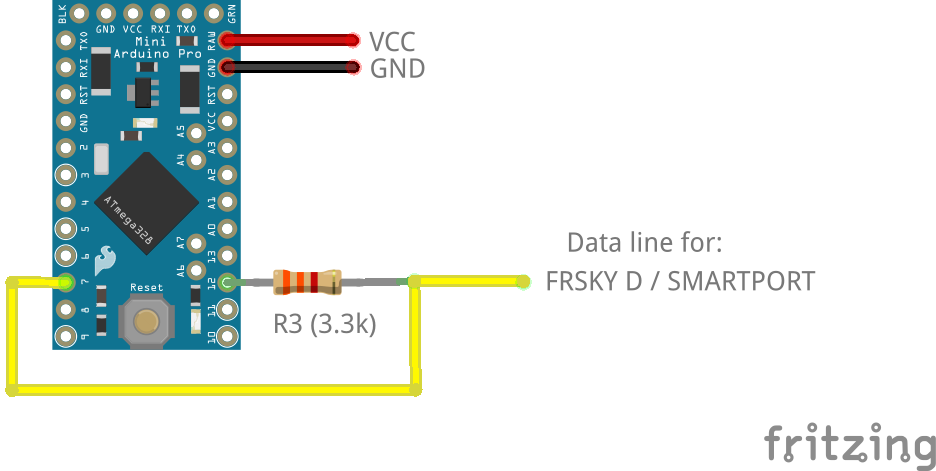
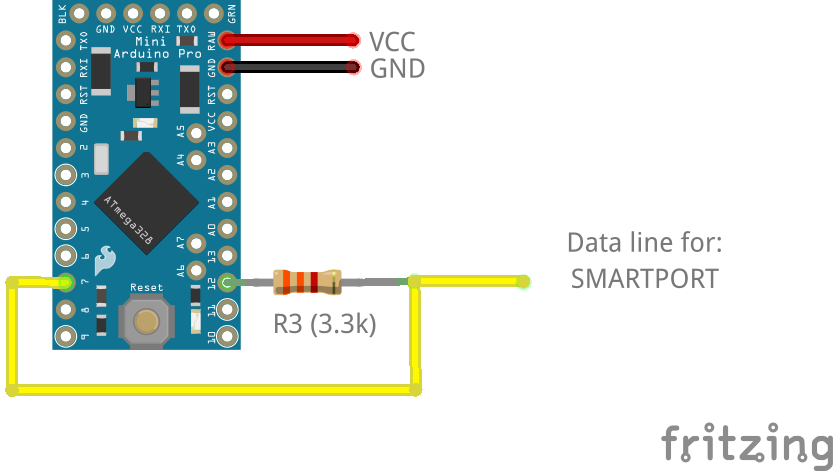
Remove Rx pin from Frsky D

diff --git a/msrc/frsky_d.h b/msrc/frsky_d.h
@@ -10,8 +10,6 @@
 #ifndef FRSKYD_H
 #define FRSKYD_H
 
-#define FRSKYD_TIMEOUT 3
-
 #include <Arduino.h>
 #include "sensor.h"
 #include "config.h"

diff --git a/README.md b/README.md
@@ -61,7 +61,8 @@ ATmega boards at 5v (16Mhz) may not read properly serial port when using ESC ser
 | PWM out | 10 | 10 | 7 | B6(A10) | 22 |
 | Rx Castle | 8 | 8 | 49 | C7 | 16 |
 | ESC Castle<sup>(1)</sup> | 2 & 10 | 2 & 22 | 45 & 48 | C8 & B6 | 2 & 6 |
-| Frsky D, Smartport | 7 & 12<sup>(2)</sup> | 4 & 23<sup>(2)</sup> | 10 & 15<sup>(2)</sup> | B2 & B4<sup>(2)</sup><br/>(16 & 8) | 1 |
+| Frsky Smartport | 7 & 12<sup>(2)</sup> | 4 & 23<sup>(2)</sup> | 10 & 15<sup>(2)</sup> | B2 & B4<sup>(2)</sup><br/>(16 & 8) | 1 |
+| Frsky D | 12 | 23 | 15 | B4(8) | 1 |
 | SRXL, IBUS, SBUS<sup>(4)</sup>, SB | RX & TX<sup>(2)</sup> | 12(RX1) & 11(TX1)<sup>(2)</sup> | 15 & 14<sup>(2)</sup> | D2(RX1) & D3(TX1)<sup>(2)</sup> | 1 |
 | XBUS or sensor SDA | A4 | A4 | 20 | D1(2) | 18<sup>(3)</sup> |
 | XBUS or sensor SCL | A5 | A5 | 21 | D0(3) | 19<sup>(3)</sup> |
@@ -88,7 +89,10 @@ Depending on the receiver protocol connect to the Rx as follows
 ### ATmega boards
 
 <p align="center"><img src="./images/frsky_smartport.png" width="350"><br>
-<i>Frsky D(Signal = Rx), Smartport</i><br><br></p>
+<i>Frsky Smartport</i><br><br></p>
+
+<p align="center"><img src="./images/frsky_d.png" width="350"><br>
+<i>Frsky D</i><br><br></p>
 
 <p align="center"><img src="./images/srxl_ibus_sbus_sb.png" width="350"><br>
 <i>SRXL, IBUS, SBUS2(it is needed a signal inverter) or Multiplex Sensor Bus</i><br><br></p>
@@ -205,11 +209,7 @@ Remarks:
 <p align="center"><img src="./images/full.png" width="600"><br>
   <i>I2C and analog sensors with Smartport</i><br><br></p>
 
-## 4. Flash to Arduino
-
-Using Arduino IDE copy folder *msrc* and open *msrc.ino*. Select the board and flash
-
-## 5. Configuration
+## 4. Configuration
 
 ### From PC - MSRC gui
 
@@ -217,14 +217,14 @@ Use MSRC to generate _config.h_. Copy and paste the text to config.h and then fl
 
 <p align="center"><img src="./images/msrc_gui.png" width="600"><br>
 
-To build msrc_gui:
+Find the Binaries [here](https://github.com/dgatf/msrc/tree/master/msrc_gui/binaries)
+
+Or build msrc_gui:
 
 - Install QT
 - cd to msrc_gui
 - _qmake_
 - _make_
-
-Binaries [here](https://github.com/dgatf/msrc/tree/master/msrc_gui/binaries)
 
 ### From PC - config.h
 
@@ -254,6 +254,11 @@ Options:
 - Averaging queue size: 1 to 16
 - Refresh rate (ms): 0 to 1600
 - I2C (x2). Sensor type and address
+
+
+## 5. Flash to Arduino
+
+Using Arduino IDE copy folder *msrc* and open *msrc.ino*. Select the board and flash
 
 ## 6. OpenTx sensors (Smartport)
 
